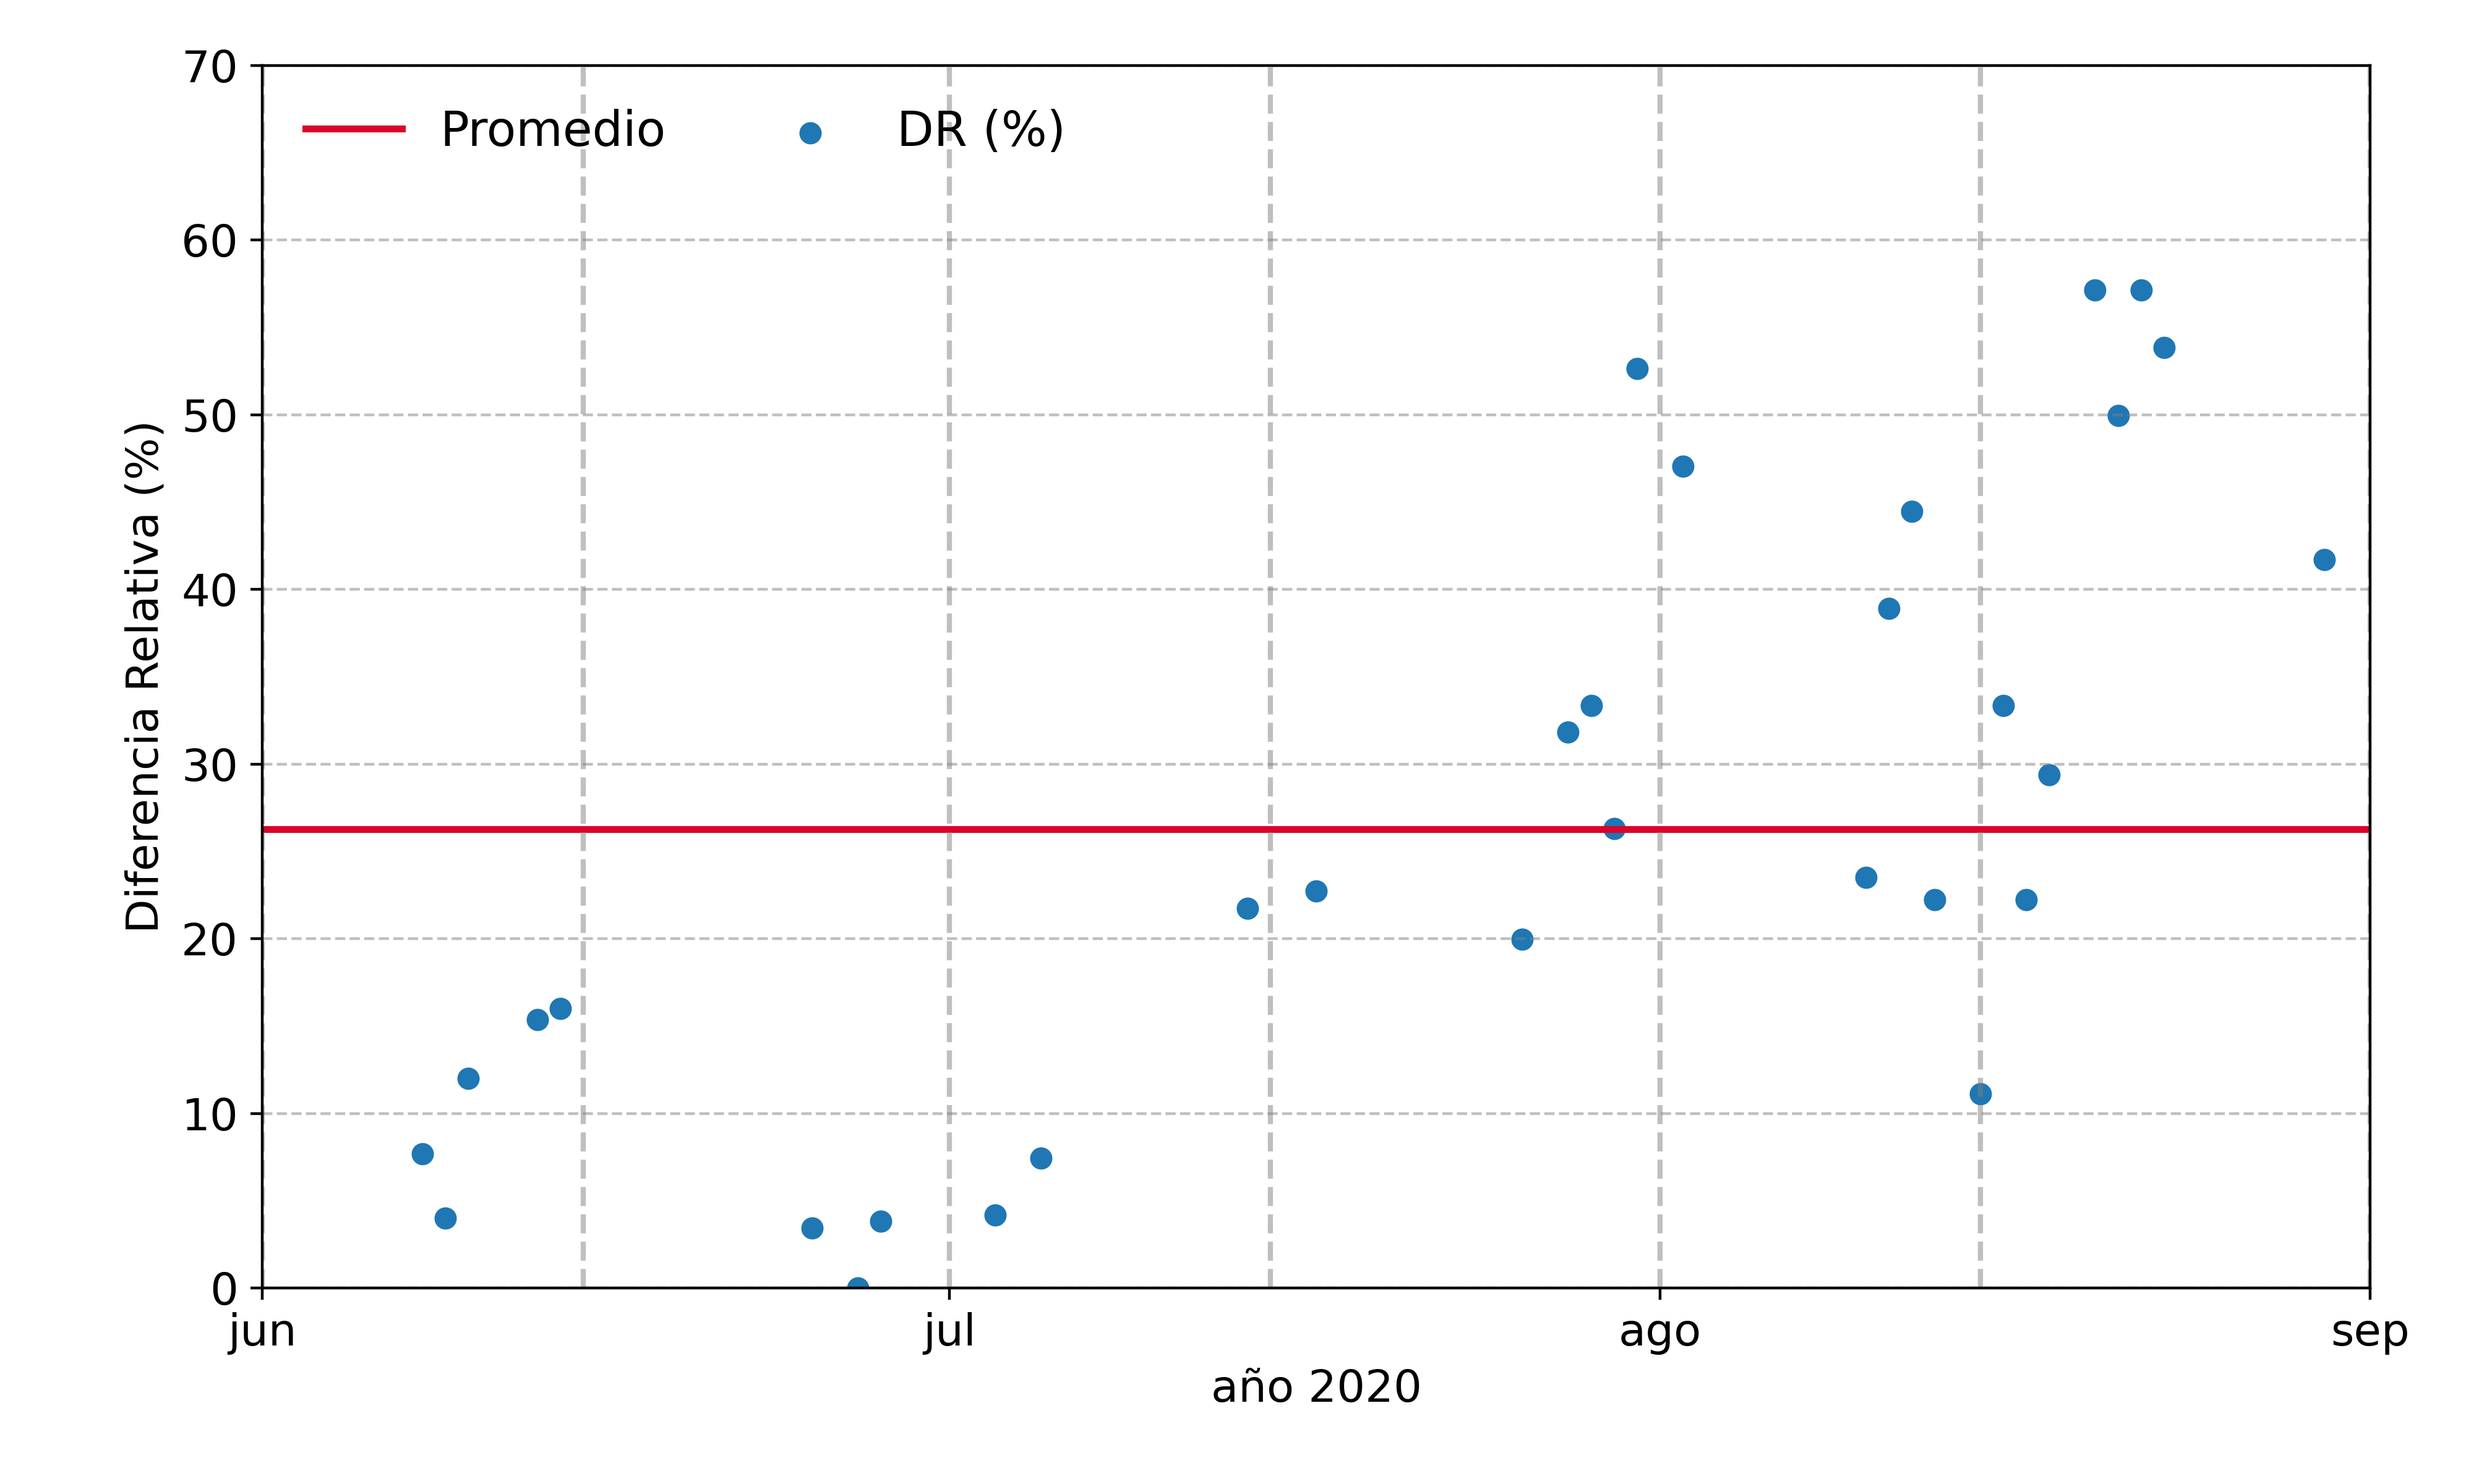
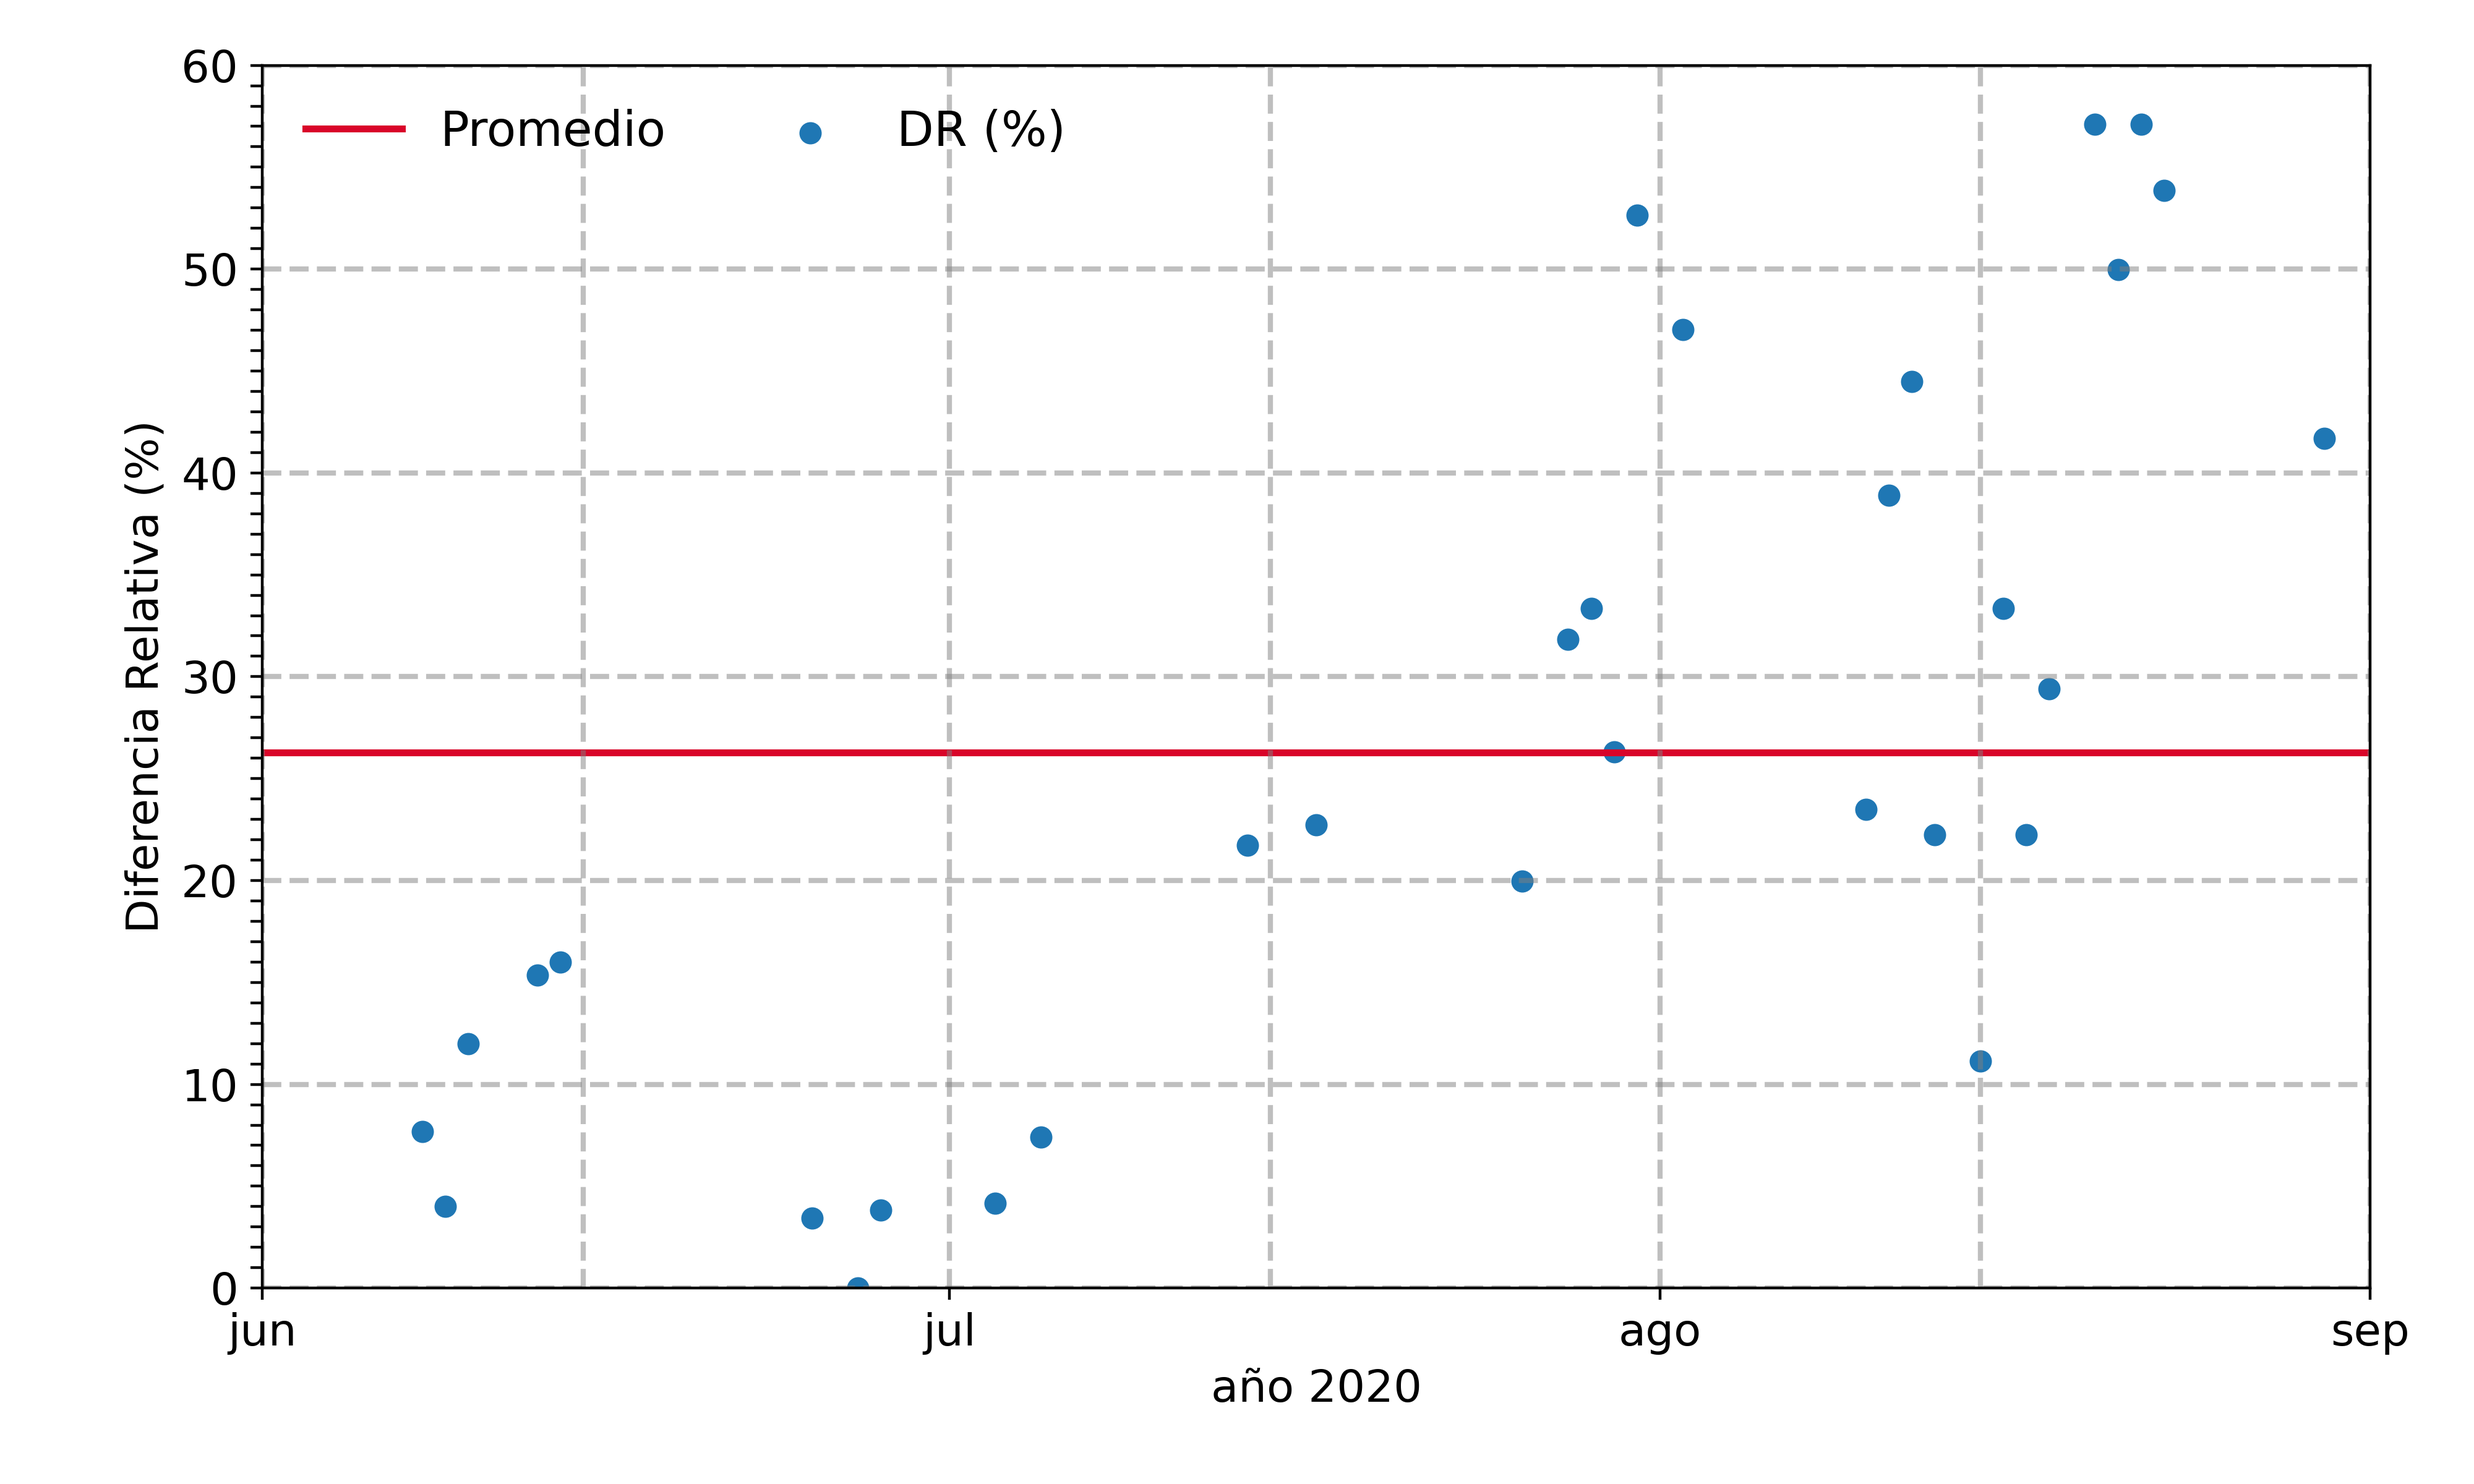
Change yticks

diff --git a/Scripts/Graphics_doses_RD.py b/Scripts/Graphics_doses_RD.py
@@ -43,8 +43,8 @@ parameters = {"path data": "../Data/",
               "date initial": "2020-06-01",
               "date final": "2020-09-01",
               "dataset doses": "1/4 MED",
-              "y limit": 70,
-              "delta y": 10,
+              "y limit": 60,
+              "y delta": 10,
               "fontsize": 13,
               # The first dataset is used for set the xticks
               "dataset parameters": {"dataset 1": {"AOD": "Binary search",
@@ -88,22 +88,23 @@ plt.xticks(months,
            fontsize=parameters["fontsize"])
 plot_xgrid(months,
            parameters["y limit"])
+plot_ygrid(parameters)
 plt.xlim(dates[0],
          dates[1])
 plt.xlabel("año 2020",
            fontsize=parameters["fontsize"])
 plt.ylim(0,
          parameters["y limit"])
-plt.yticks([tick for tick in range(0,
-                                   parameters["y limit"]+parameters["delta y"],
-                                   parameters["delta y"])],
-           fontsize=parameters["fontsize"])
+# plt.yticks([tick for tick in range(0,
+#                                    parameters["y limit"]+parameters["y delta"],
+#                                    parameters["y delta"])],
+#            fontsize=parameters["fontsize"])
 plt.ylabel("Diferencia Relativa (%)",
            fontsize=parameters["fontsize"])
-plt.grid(ls="--",
-         color="grey",
-         alpha=0.5,
-         axis="y")
+# plt.grid(ls="--",
+#          color="grey",
+#          alpha=0.5,
+#          axis="y")
 plt.legend(frameon=False,
            ncol=2,
            loc="upper left",
